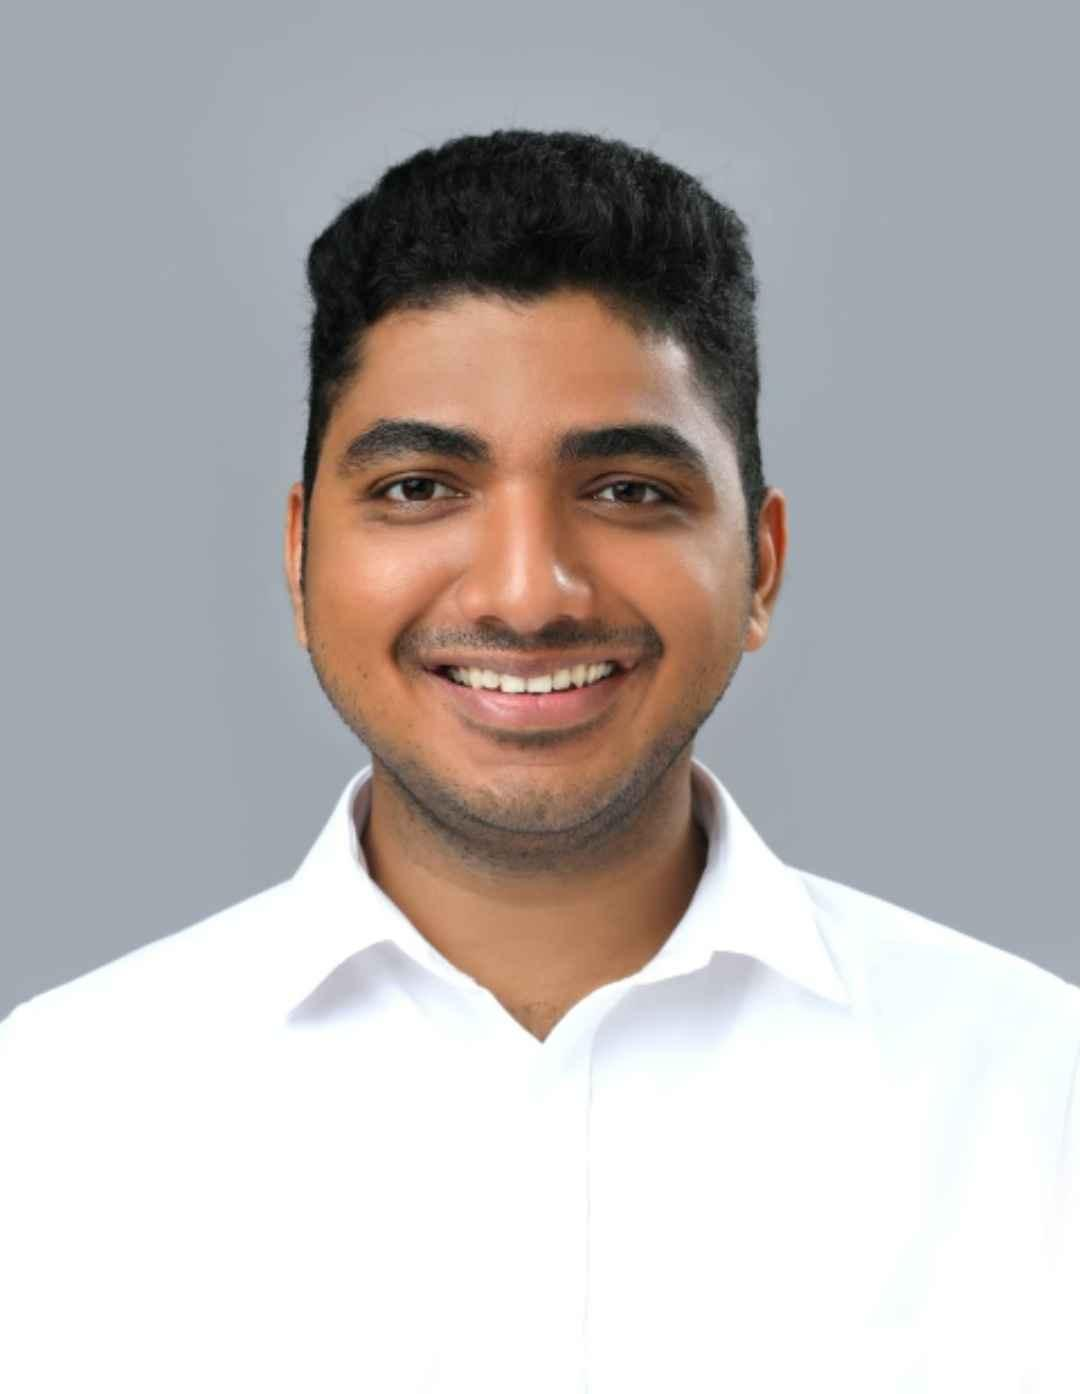
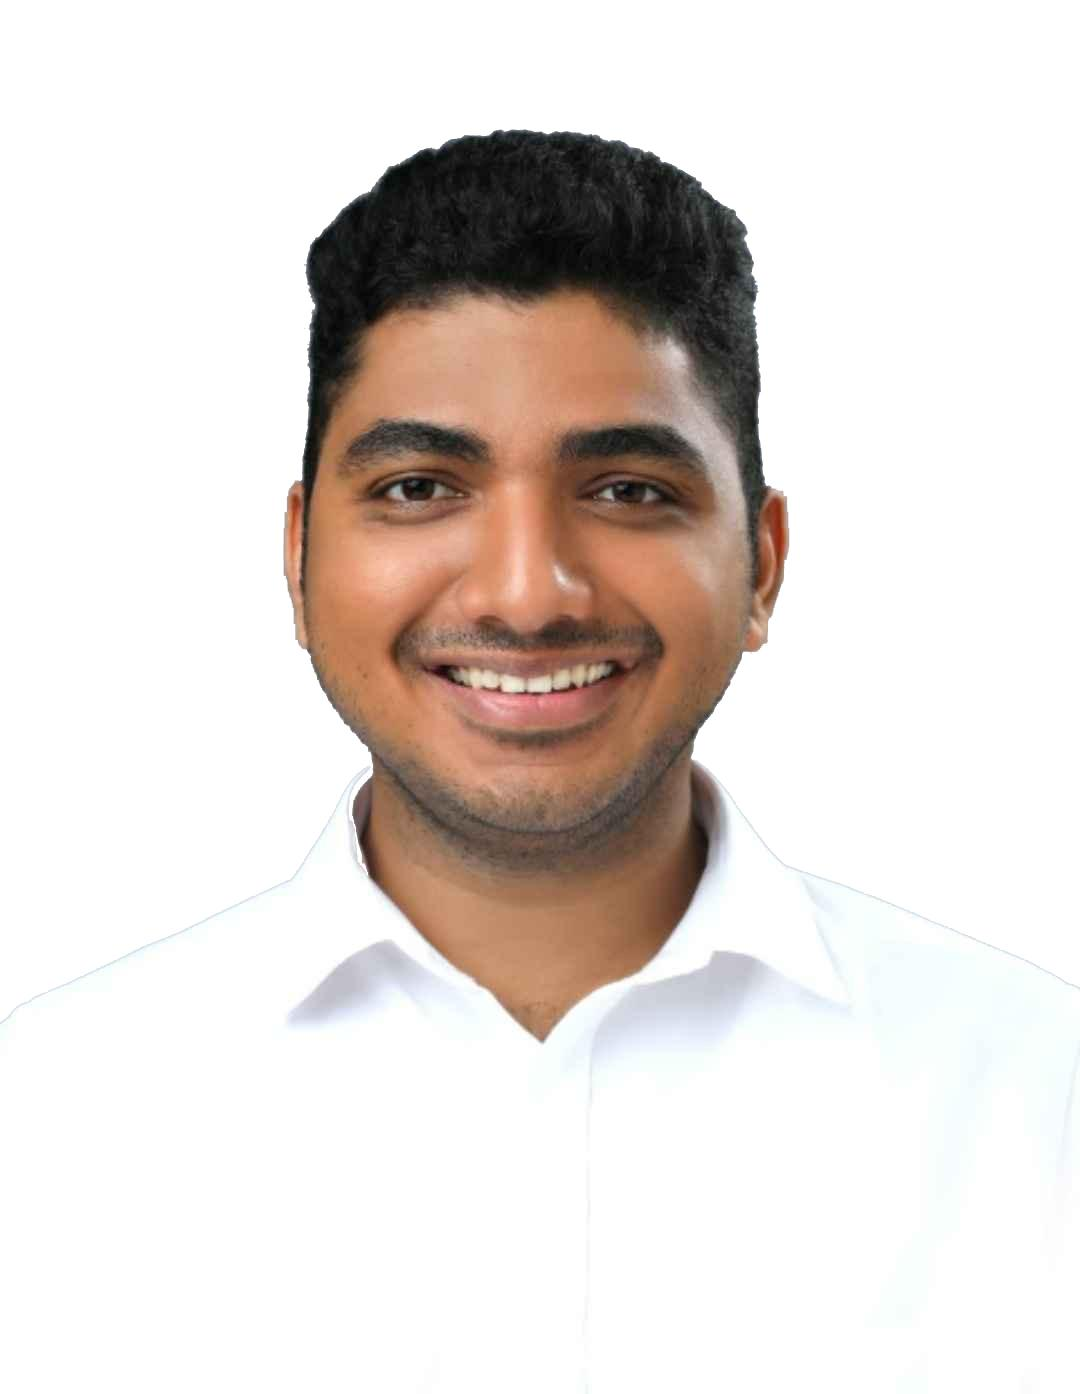
.

diff --git a/src/pages/Home/Service/TeamMemberCard.jsx b/src/pages/Home/Service/TeamMemberCard.jsx
@@ -14,7 +14,7 @@ const TeamMemberCard = ({ image, name, role, body }) => {
   return (
     <div className='p-4 shadow-md rounded-lg'>
       <div onClick={openModal} className='cursor-pointer'>
-        <div className='overflow-hidden rounded-lg lg:h-64 sm:h-76 w-full bg-gray-200 p-2 img'>
+        <div className='overflow-hidden rounded-lg lg:h-64 sm:h-76 w-full bg-white-200 p-2 img'>
           <div className='overflow-hidden rounded-lg h-full w-full '>
             <img
               src={image}
